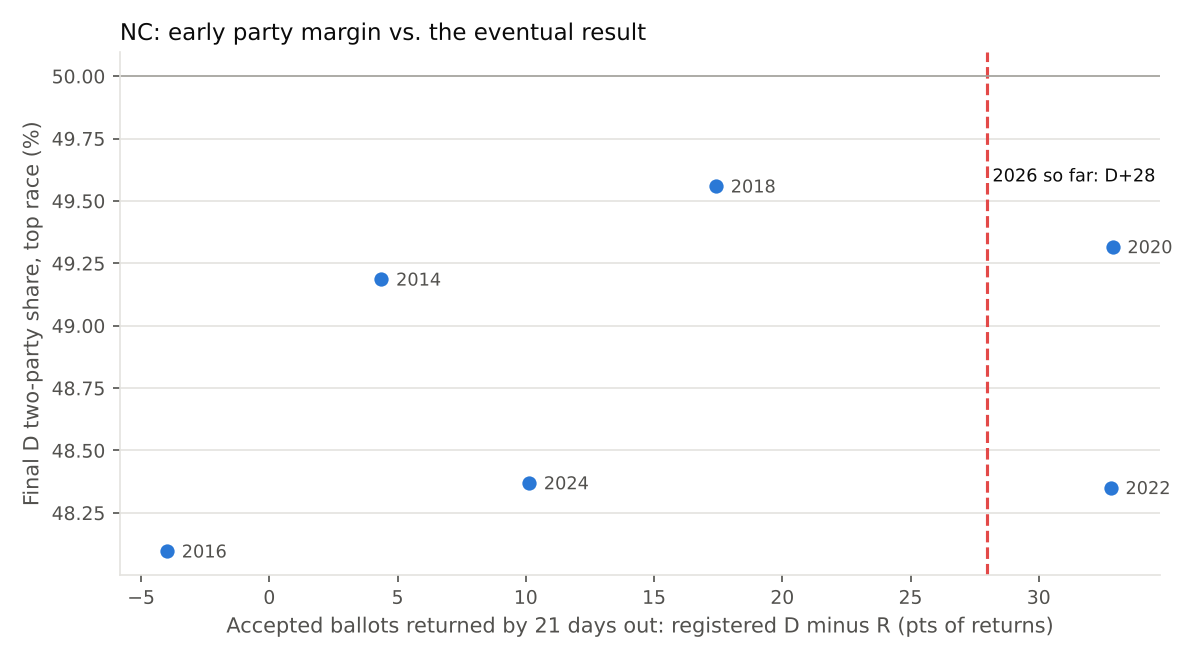
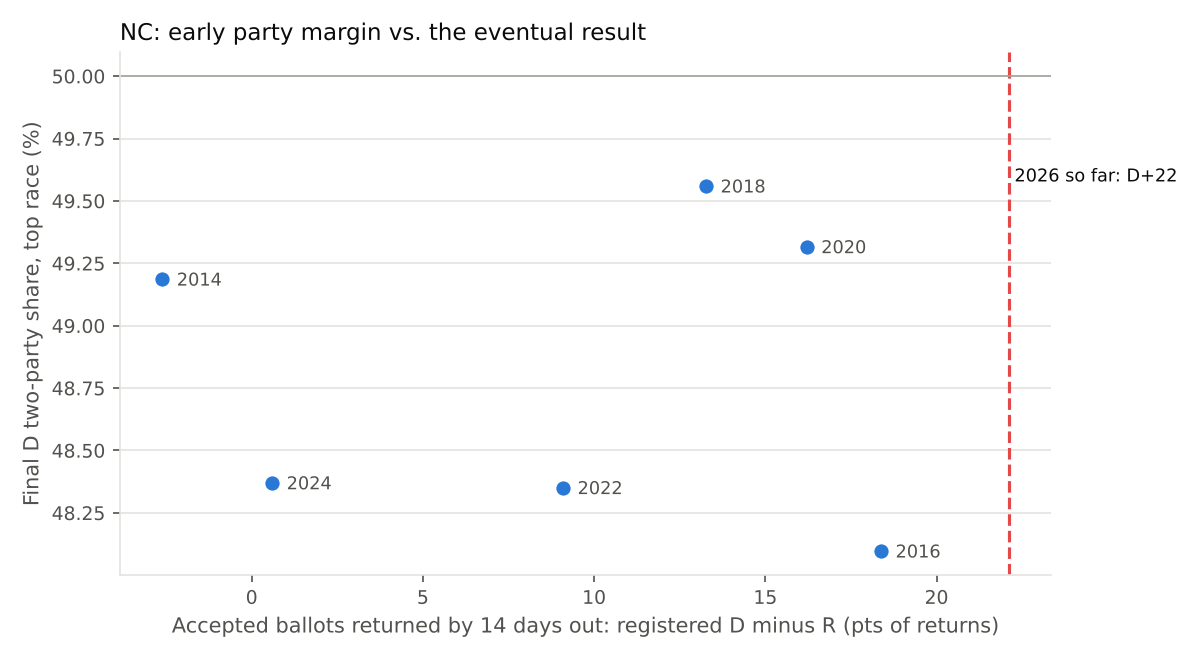
Oct 21 update: NC same-day early vote with in-person voting, Nevada read
Fixes the NC cutoff so a few mis-dated return records can't set the
as-of date, refreshes the 2026 NC data (through 14 days out), and adds a
README section comparing NC and Nevada early voting against 2022.

Claude-Session: https://claude.ai/code/session_017K1hUDHLmtDhTQWjTfpC7y

diff --git a/scripts/nc_early_vote.py b/scripts/nc_early_vote.py
@@ -135,7 +135,10 @@ def main():
     res = pd.DataFrame([results(y) for y in years if y != 2026])
     res.to_csv(PROC / "nc_results.csv", index=False)
 
-    now = int(daily[daily.year == 2026].days_before.min())  # 2026 data is current to this point
+    # 2026 data is current to the latest day with real volume; a handful of records carry
+    # mis-keyed future return dates and must not set the cutoff.
+    cur = daily[daily.year == 2026].groupby("days_before").ballots.sum()
+    now = int(cur[cur >= 100].index.min())
     rows = []
     for y in years:
         early = snapshot(daily, y, now)

diff --git a/README.md b/README.md
@@ -327,6 +327,51 @@ checked against the same point in a past election (NC), 2026 doesn't show the De
 the early headlines suggest. Where headlines rely on party labels (Ohio), much of the apparent
 shift is an artifact of the labels.
 
+## Update, Oct 21, 2026: in-person early voting under way (NC, NV)
+
+**North Carolina, 14 days out** (`scripts/nc_early_vote.py`, which now ignores a few mis-dated
+records when setting the cutoff). In-person early voting began on the same calendar day in 2022
+and 2026 (19 days out), so this is a like-for-like comparison:
+
+| Same day (−14) | Ballots | D | R | Unaff. | D − R |
+|---|---:|---:|---:|---:|---:|
+| 2018 | 719,940 | 311,739 | 216,216 | 191,985 | +13.3 |
+| 2022 | 668,913 | 266,420 | 205,606 | 196,887 | +9.1 |
+| 2024 | 1,722,969 | 594,337 | 584,072 | 544,560 | +0.6 |
+| **2026** | **924,159** | **404,913** | **200,563** | **318,683** | **+22.1** |
+
+- Compared with 2022: D ballots are up 52%, unaffiliated up 62%, and **R ballots down 2.5%**. The
+  shift from mail to in-person explains very little of this: D mail ballots are down only
+  about 13k, while D in-person is up about 152k.
+- This is the first large, same-day signal this cycle. The backtest still applies. At 14 days
+  out, the change in D − R margin pointed the right way in 2 of 3 comparable pairs, and was 3.5 to
+  16 times larger than the change in the result. Read literally, +13 points of early margin
+  would mean about 1 to 4 points of D improvement over 2022. That range is wide and only
+  illustrative.
+- Main alternative explanation: **when people vote, not whether they vote.** Democrats may be
+  shifting from Election Day to early voting, and Republicans may be waiting for Election Day.
+  Republicans' raw early ballots are flat, not down, which fits either reading. The
+  vote-history check (are the extra D/unaffiliated early voters people who skipped 2022?)
+  would distinguish them. It needs NC's statewide vote-history file.
+
+**Nevada** (from the Nevada Independent blog's published numbers, through Oct 21, about 18% of
+expected turnout):
+- Statewide D+4 to D+5 on about 195k ballots. Mail is D+9, in-person R+3.
+- **Clark looks like 2022; Washoe is where it's better.** Clark's first-weekend combined early
+  vote in 2022 was about 58k ballots at D+13. 2026 is about 71k at roughly D+11 (mail D+14,
+  in-person D+4 to D+6, both estimated). That's a similar raw lead on more ballots. Washoe is
+  D+8 to D+9, against less than half that at the same point in 2022, and Washoe is
+  overrepresented (21–23% of ballots against 16% of registrants).
+- Votes are moving between methods: about 1 in 4 of 2022's in-person voters now vote by mail,
+  and that group leans R. Clark mail is less D than in 2022 (D+14 against about D+23), and
+  in-person is much less R (D+6 on Day 1, against R+8). Comparing one method at a time is
+  misleading. Only combined totals are comparable.
+- Best enthusiasm signal in the blog: **D in-person voters are 19% under 45, against R 7%. 94% of
+  R in-person voters voted in at least 2 of the last 3 generals.** So far the R early vote is
+  people who would have voted anyway, while Democrats are drawing in younger voters.
+- For the author's baseline final electorate of R+3, the remaining 82% must be about R+4.7. 2022
+  ended at about R+2.7, and Democrats still won the Senate race because nonpartisans leaned D.
+
 ## Caveats
 
 - **Different stages.** 2026 is requests at day 28 before the election. 2022 is final ballots
